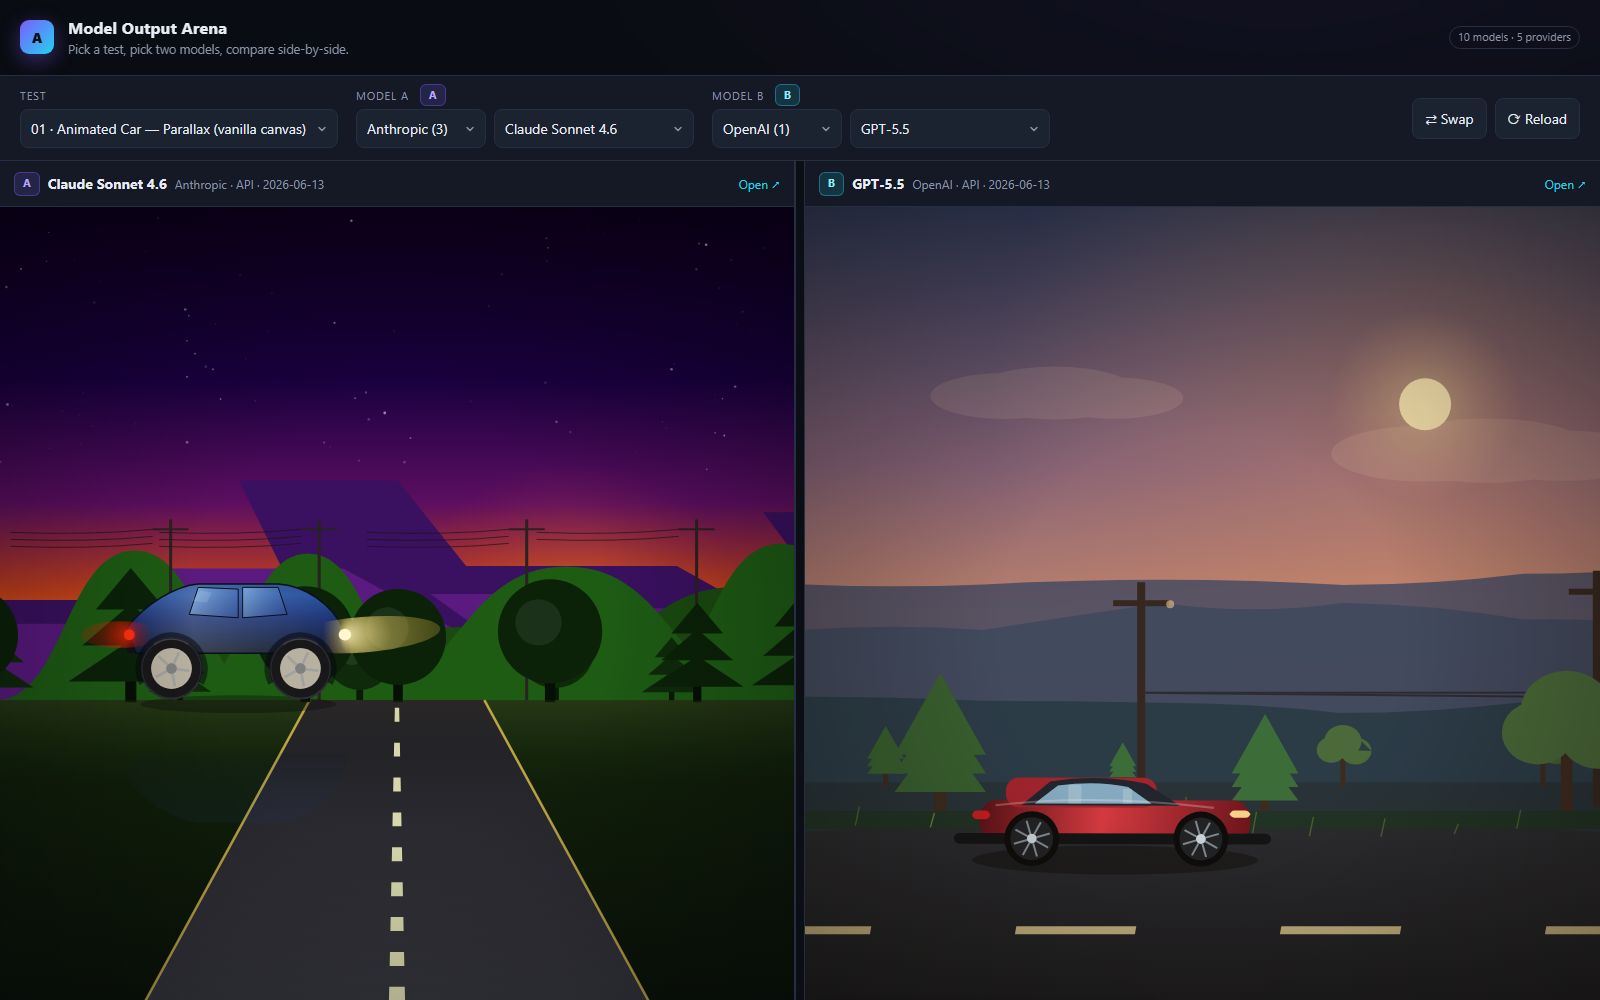
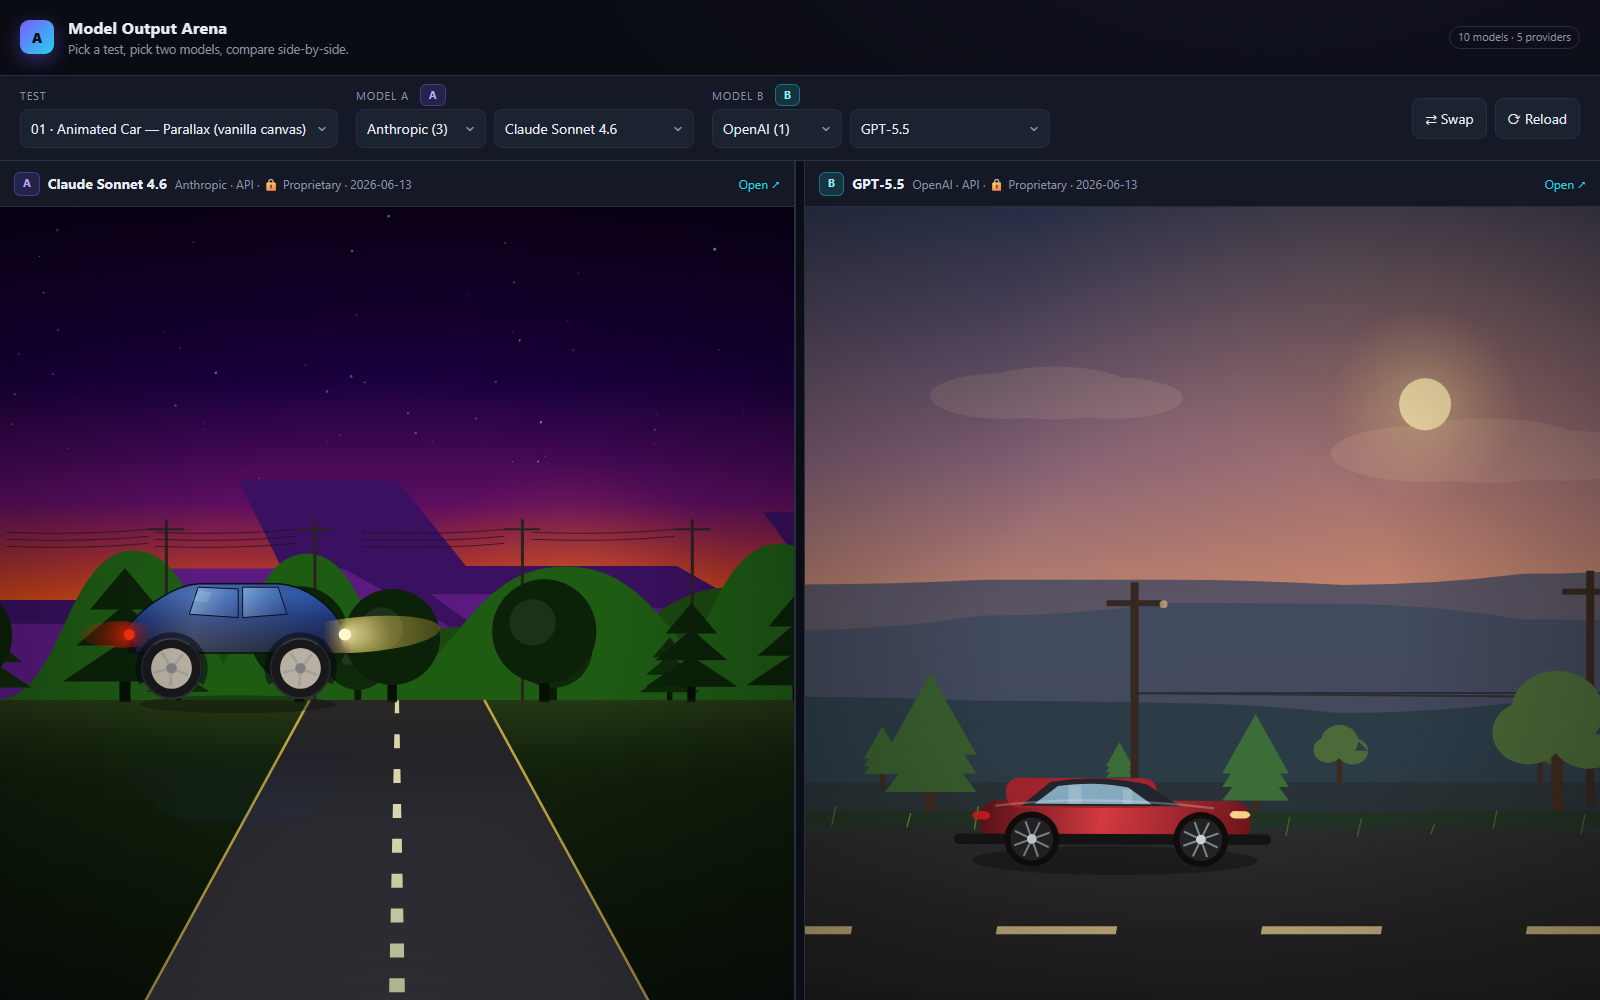
Add open-weights vs proprietary as a distinct model axis
Weights openness is independent of API/Local hosting (e.g. GLM is
open-weights but served via API), so it gets its own field + column.

- manifest.js: add weights: open|closed to all entries
- compare.html: show Open-weights/Proprietary in each panel sub-line
- README: new Weights column + explanation of the two axes
- PLAN.md: document the required weights field (meta.json, manifest, README)
- meta.json: backfill weights for claude-sonnet-4-6
- docs: refresh compare screenshot

diff --git a/manifest.js b/manifest.js
@@ -18,6 +18,7 @@ window.ARENA = {
       model: "glm-5-turbo",
       model_display: "GLM 5 Turbo",
       hosting: "api",
+      weights: "closed",
       path: "providers/z-ai/glm-5-turbo",
       added: "2026-06-13",
       outputs: {
@@ -32,6 +33,7 @@ window.ARENA = {
       model: "claude-opus-4-8",
       model_display: "Claude Opus 4.8",
       hosting: "api",
+      weights: "closed",
       path: "providers/anthropic/claude-opus-4-8",
       added: "2026-06-13",
       outputs: {
@@ -46,6 +48,7 @@ window.ARENA = {
       model: "glm-5.2",
       model_display: "GLM 5.2",
       hosting: "api",
+      weights: "open",
       path: "providers/z-ai/glm-5.2",
       added: "2026-06-13",
       outputs: {
@@ -60,6 +63,7 @@ window.ARENA = {
       model: "glm-5.1",
       model_display: "GLM 5.1",
       hosting: "api",
+      weights: "open",
       path: "providers/z-ai/glm-5.1",
       added: "2026-06-13",
       outputs: {
@@ -74,6 +78,7 @@ window.ARENA = {
       model: "claude-haiku-4-5",
       model_display: "Claude Haiku 4.5",
       hosting: "api",
+      weights: "closed",
       path: "providers/anthropic/claude-haiku-4-5",
       added: "2026-06-13",
       outputs: {
@@ -88,6 +93,7 @@ window.ARENA = {
       model: "gpt-5.5",
       model_display: "GPT-5.5",
       hosting: "api",
+      weights: "closed",
       path: "providers/openai/gpt-5.5",
       added: "2026-06-13",
       outputs: {
@@ -102,6 +108,7 @@ window.ARENA = {
       model: "qwen3.6-27b-heretic-v2",
       model_display: "Qwen 3.6 27B Heretic v2",
       hosting: "local",
+      weights: "open",
       path: "providers/qwen/qwen3.6-27b-heretic-v2",
       added: "2026-06-13",
       outputs: {
@@ -116,6 +123,7 @@ window.ARENA = {
       model: "gemma-4-26b-a4b-qat",
       model_display: "Gemma 4 26B A4B QAT",
       hosting: "local",
+      weights: "open",
       path: "providers/google/gemma-4-26b-a4b-qat",
       added: "2026-06-13",
       outputs: {
@@ -130,6 +138,7 @@ window.ARENA = {
       model: "gemma-4-31b-qat",
       model_display: "Gemma 4 31B QAT",
       hosting: "local",
+      weights: "open",
       path: "providers/google/gemma-4-31b-qat",
       added: "2026-06-13",
       outputs: {
@@ -144,6 +153,7 @@ window.ARENA = {
       model: "claude-sonnet-4-6",
       model_display: "Claude Sonnet 4.6",
       hosting: "api",
+      weights: "closed",
       path: "providers/anthropic/claude-sonnet-4-6",
       added: "2026-06-13",
       outputs: {

diff --git a/compare.html b/compare.html
@@ -231,7 +231,13 @@
     // cache-bust on reload by appending t
     frame.src = p;
     nameEl.textContent = m.model_display || m.model;
-    whoEl.textContent = (m.provider_display || m.provider) + " · " + (m.hosting === "local" ? "Local" : "API") + " · " + (m.added||"");
+    const weightsLabel = m.weights === "open" ? "🔓 Open-weights" : m.weights === "closed" ? "🔒 Proprietary" : "";
+    whoEl.textContent = [
+      (m.provider_display || m.provider),
+      (m.hosting === "local" ? "Local" : "API"),
+      weightsLabel,
+      (m.added || "")
+    ].filter(Boolean).join(" · ");
     openLink.href = p;
   }
 

diff --git a/README.md b/README.md
@@ -56,20 +56,23 @@ e.g. `compare.html#test=01-car-parallax&a=claude-sonnet-4-6&b=gpt-5.5` opens the
 
 See the [`providers/`](./providers) tree.
 
-Models are either **☁️ API** (served by the vendor) or **🖥️ Local** (open weights run on your own hardware — see `runtime` in each model's `meta.json`). Comparing a quantized local model to a frontier API model is useful context, so it's labelled.
+Two independent axes are labelled:
 
-| Provider | Model | Type | Path |
-|----------|-------|------|------|
-| Anthropic | Claude Opus 4.8 | ☁️ API | [`providers/anthropic/claude-opus-4-8`](./providers/anthropic/claude-opus-4-8) |
-| Anthropic | Claude Haiku 4.5 | ☁️ API | [`providers/anthropic/claude-haiku-4-5`](./providers/anthropic/claude-haiku-4-5) |
-| Z.AI | GLM 5.2 | ☁️ API | [`providers/z-ai/glm-5.2`](./providers/z-ai/glm-5.2) |
-| Z.AI | GLM 5.1 | ☁️ API | [`providers/z-ai/glm-5.1`](./providers/z-ai/glm-5.1) |
-| Z.AI | GLM 5 Turbo | ☁️ API | [`providers/z-ai/glm-5-turbo`](./providers/z-ai/glm-5-turbo) |
-| OpenAI | GPT-5.5 | ☁️ API | [`providers/openai/gpt-5.5`](./providers/openai/gpt-5.5) |
-| Qwen | Qwen 3.6 27B Heretic v2 | 🖥️ Local | [`providers/qwen/qwen3.6-27b-heretic-v2`](./providers/qwen/qwen3.6-27b-heretic-v2) |
-| Google | Gemma 4 26B A4B QAT | 🖥️ Local | [`providers/google/gemma-4-26b-a4b-qat`](./providers/google/gemma-4-26b-a4b-qat) |
-| Google | Gemma 4 31B QAT | 🖥️ Local | [`providers/google/gemma-4-31b-qat`](./providers/google/gemma-4-31b-qat) |
-| Anthropic | Claude Sonnet 4.6 | ☁️ API | [`providers/anthropic/claude-sonnet-4-6`](./providers/anthropic/claude-sonnet-4-6) |
+- **Type** — **☁️ API** (served by the vendor) or **🖥️ Local** (run on your own hardware — see `runtime` in each model's `meta.json`).
+- **Weights** — **🔓 Open-weights** (weights are publicly downloadable) or **🔒 Proprietary** (closed). These don't always match Type: GLM, for instance, is open-weights but used here over an API.
+
+| Provider | Model | Type | Weights | Path |
+|----------|-------|------|---------|------|
+| Anthropic | Claude Opus 4.8 | ☁️ API | 🔒 Proprietary | [`providers/anthropic/claude-opus-4-8`](./providers/anthropic/claude-opus-4-8) |
+| Anthropic | Claude Haiku 4.5 | ☁️ API | 🔒 Proprietary | [`providers/anthropic/claude-haiku-4-5`](./providers/anthropic/claude-haiku-4-5) |
+| Z.AI | GLM 5.2 | ☁️ API | 🔓 Open-weights | [`providers/z-ai/glm-5.2`](./providers/z-ai/glm-5.2) |
+| Z.AI | GLM 5.1 | ☁️ API | 🔓 Open-weights | [`providers/z-ai/glm-5.1`](./providers/z-ai/glm-5.1) |
+| Z.AI | GLM 5 Turbo | ☁️ API | 🔒 Proprietary | [`providers/z-ai/glm-5-turbo`](./providers/z-ai/glm-5-turbo) |
+| OpenAI | GPT-5.5 | ☁️ API | 🔒 Proprietary | [`providers/openai/gpt-5.5`](./providers/openai/gpt-5.5) |
+| Qwen | Qwen 3.6 27B Heretic v2 | 🖥️ Local | 🔓 Open-weights | [`providers/qwen/qwen3.6-27b-heretic-v2`](./providers/qwen/qwen3.6-27b-heretic-v2) |
+| Google | Gemma 4 26B A4B QAT | 🖥️ Local | 🔓 Open-weights | [`providers/google/gemma-4-26b-a4b-qat`](./providers/google/gemma-4-26b-a4b-qat) |
+| Google | Gemma 4 31B QAT | 🖥️ Local | 🔓 Open-weights | [`providers/google/gemma-4-31b-qat`](./providers/google/gemma-4-31b-qat) |
+| Anthropic | Claude Sonnet 4.6 | ☁️ API | 🔒 Proprietary | [`providers/anthropic/claude-sonnet-4-6`](./providers/anthropic/claude-sonnet-4-6) |
 
 ## How outputs were generated
 

diff --git a/PLAN.md b/PLAN.md
@@ -88,7 +88,8 @@ Create one per test:
   "generated_at": "2026-06-13T12:00:00Z",
   "runner": "GLM-5.2 via pi agent",
   "notes": "",
-  "hosting": "api"
+  "hosting": "api",
+  "weights": "open"
 }
 ```
 
@@ -100,6 +101,9 @@ Create one per test:
 - `notes`: optional — anything notable (stylization choices, known limitations).
 - `hosting`: **required.** Either `"api"` (served by the vendor over an API) or `"local"` (open weights you run
   yourself). Must match the `hosting` value in `manifest.js`; it drives the **Type** column in the README.
+- `weights`: **required.** Either `"open"` (weights are publicly downloadable) or `"closed"` (proprietary).
+  This is a *separate axis from `hosting`* — e.g. an open-weights model can still be used over an API.
+  Must match the `weights` value in `manifest.js`; it drives the **Weights** column in the README.
 - `runtime`: **required for local models, omitted for API models.** Provenance for reproducibility:
 
   ```json
@@ -117,7 +121,8 @@ Create one per test:
 ## 7. Register in `manifest.js`
 
 Append a new object to `window.ARENA.models` (do **not** delete existing entries). **Set `hosting`**
-to `"api"` or `"local"` — `compare.html` shows it and the README **Type** column is derived from it.
+to `"api"` or `"local"` and **`weights`** to `"open"` or `"closed"` — `compare.html` shows both and the
+README **Type** / **Weights** columns are derived from them.
 
 ```js
 {
@@ -126,6 +131,7 @@ to `"api"` or `"local"` — `compare.html` shows it and the README **Type** colu
   model: "gpt-4o",
   model_display: "GPT-4o",
   hosting: "api",
+  weights: "closed",
   path: "providers/openai/gpt-4o",
   added: "2026-06-14",
   outputs: {
@@ -142,18 +148,21 @@ The **Models tested** table in [`README.md`](./README.md) must stay in sync with
 registering your model, add one row for it (do **not** edit or remove existing rows):
 
 ```markdown
-| <Provider display> | <Model display> | <Type> | [`providers/<provider-slug>/<model-slug>`](./providers/<provider-slug>/<model-slug>) |
+| <Provider display> | <Model display> | <Type> | <Weights> | [`providers/<provider-slug>/<model-slug>`](./providers/<provider-slug>/<model-slug>) |
 ```
 
 Example:
 
 ```markdown
-| OpenAI | GPT-4o | ☁️ API | [`providers/openai/gpt-4o`](./providers/openai/gpt-4o) |
+| OpenAI | GPT-4o | ☁️ API | 🔒 Proprietary | [`providers/openai/gpt-4o`](./providers/openai/gpt-4o) |
 ```
 
 Use the same `provider_display` / `model_display` strings you put in `manifest.js` and `meta.json` so the
-table matches. The table has a **Type** column: put `☁️ API` when `hosting` is `"api"`, `🖥️ Local` when
-it's `"local"`. This is the one allowed edit to `README.md`.
+table matches. The table has two derived columns:
+- **Type**: `☁️ API` when `hosting` is `"api"`, `🖥️ Local` when it's `"local"`.
+- **Weights**: `🔓 Open-weights` when `weights` is `"open"`, `🔒 Proprietary` when it's `"closed"`.
+
+This is the one allowed edit to `README.md`.
 
 ## 9. Commit + push
 